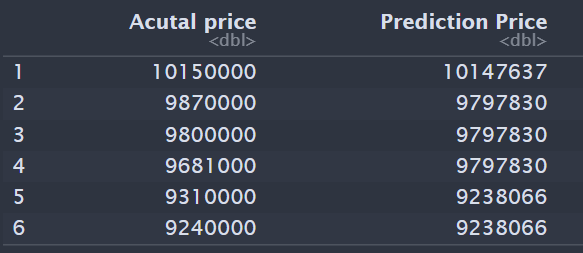
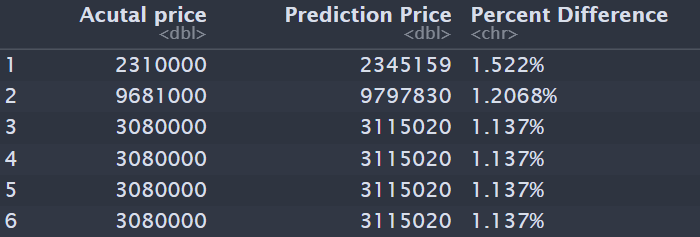
update readme

diff --git a/README.md b/README.md
@@ -27,9 +27,11 @@ The distribution of the `price` is below. The left distribution is right skewed,
 The factors variables are converted to one-hot encoded for the purpose of modeling. There is 70%/30% split in the data and 5-fold cross validation is performed to determine the optimal mode.The Extreme Gradient Boosting (XGBOOST) is determine to be a good model to predict the price of a house. On average the XGBOOST is off about is $8,314.45 (Mean Absolute Error) which is is not to bad when considering the prices of the houses in these data set are in millions.
 
 
-The images below show the table of the first 6 observation of the actual price and predicted price.
+The images below show the table of the actual price, predicted price and the percent difference. The highest percent difference is 1.522% and the lowest is 0.0001%.
 
 ![](./images/df_head.png)
+
+![](./images/df_tail.png)
 
 
 
